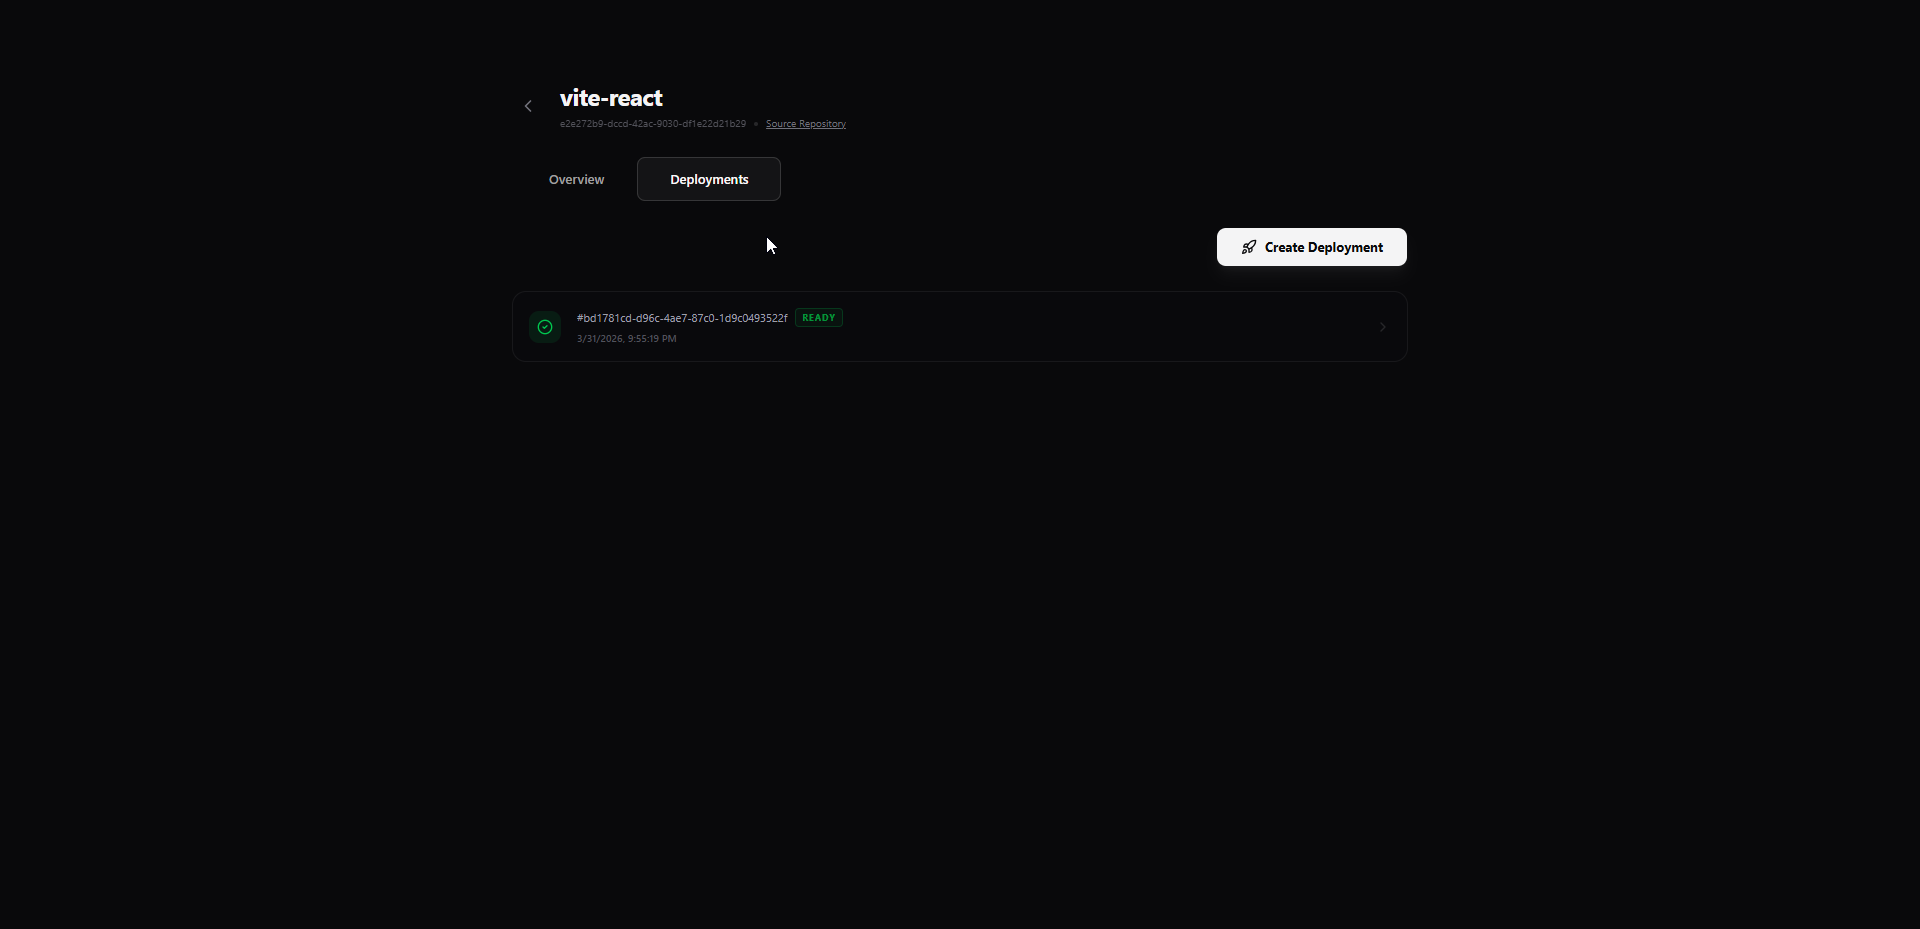
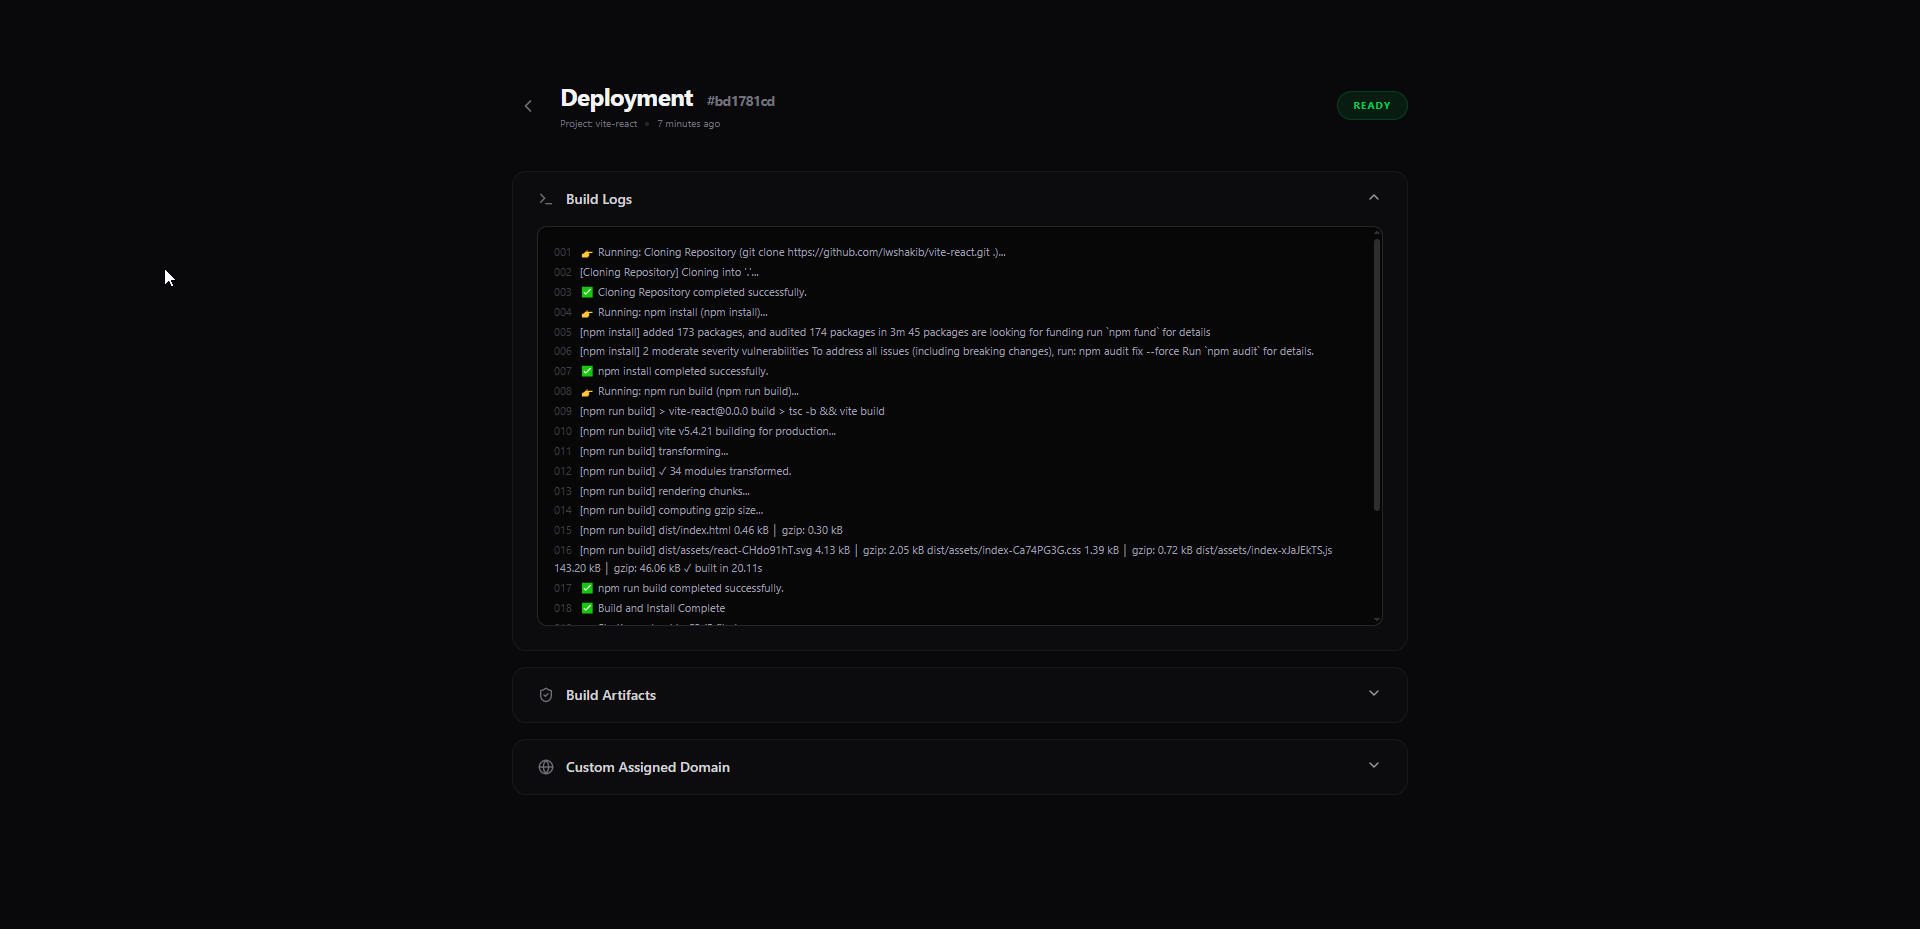
docs: rename screenshots and update README

diff --git a/README.md b/README.md
@@ -6,11 +6,11 @@ A high-performance, event-driven deployment infrastructure for React application
 ![Tech Stack](https://img.shields.io/badge/Stack-Next.js%20%7C%20Express%20%7C%20Kafka%20%7C%20ECS-original?style=for-the-badge)
 ![Hosting](https://img.shields.io/badge/Hosting-AWS%20S3%20%2B%20SQS-orange?style=for-the-badge)
 
-| ![Main Dashboard](./apps/web/public/screenshots/main-dashboard.png) | ![Deployment Logs](./apps/web/public/screenshots/deployment-logs.png) |
+| ![Deployment Logs](./apps/web/public/screenshots/deployment-logs.png) | ![Deployments List](./apps/web/public/screenshots/deployments-list.png) |
 | :---: | :---: |
-| **Main Dashboard** | **Deployment Logs** |
-| ![Project Configuration](./apps/web/public/screenshots/project-configuration.png) | ![Dashboard Overview](./apps/web/public/screenshots/dashboard-primary.png) |
-| **Project Configuration** | **Dashboard Overview** |
+| **Deployment Logs** | **Deployments List** |
+| ![Project Overview](./apps/web/public/screenshots/project-overview.png) | ![Dashboard](./apps/web/public/screenshots/dashboard.png) |
+| **Project Overview** | **Dashboard** |
 
 ## 🏗️ Core Architecture
 